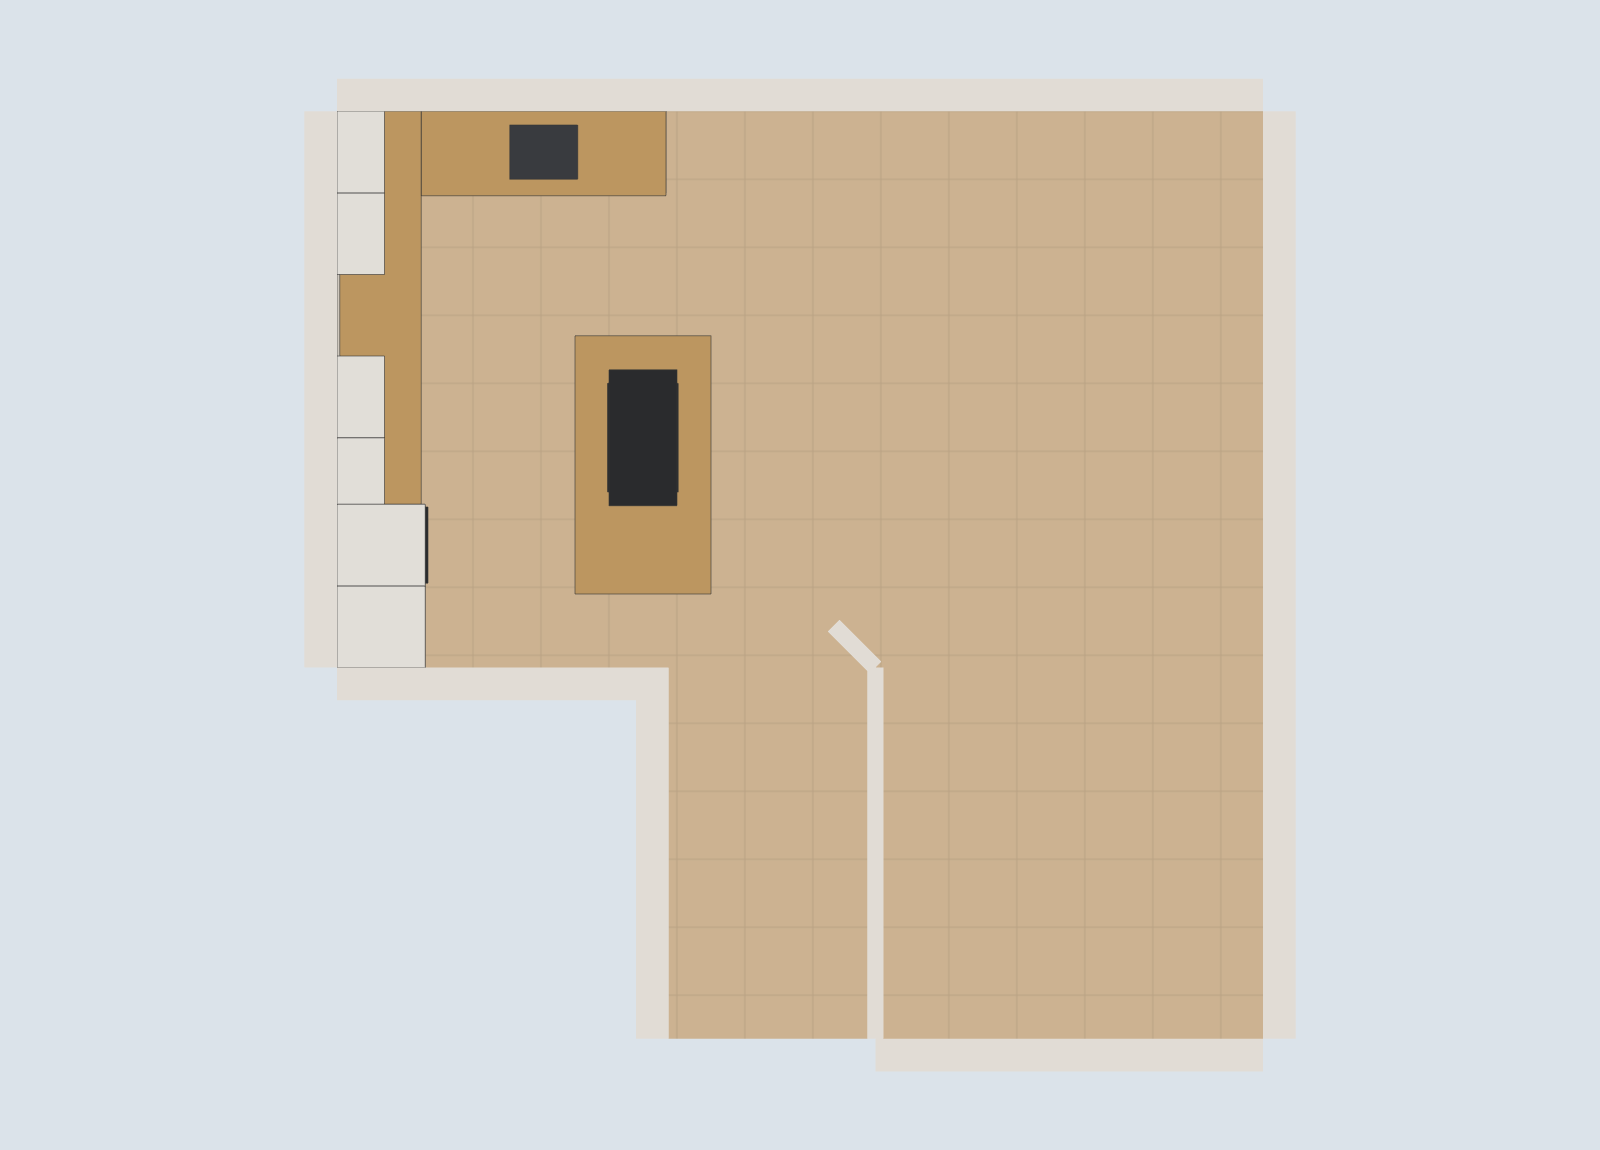
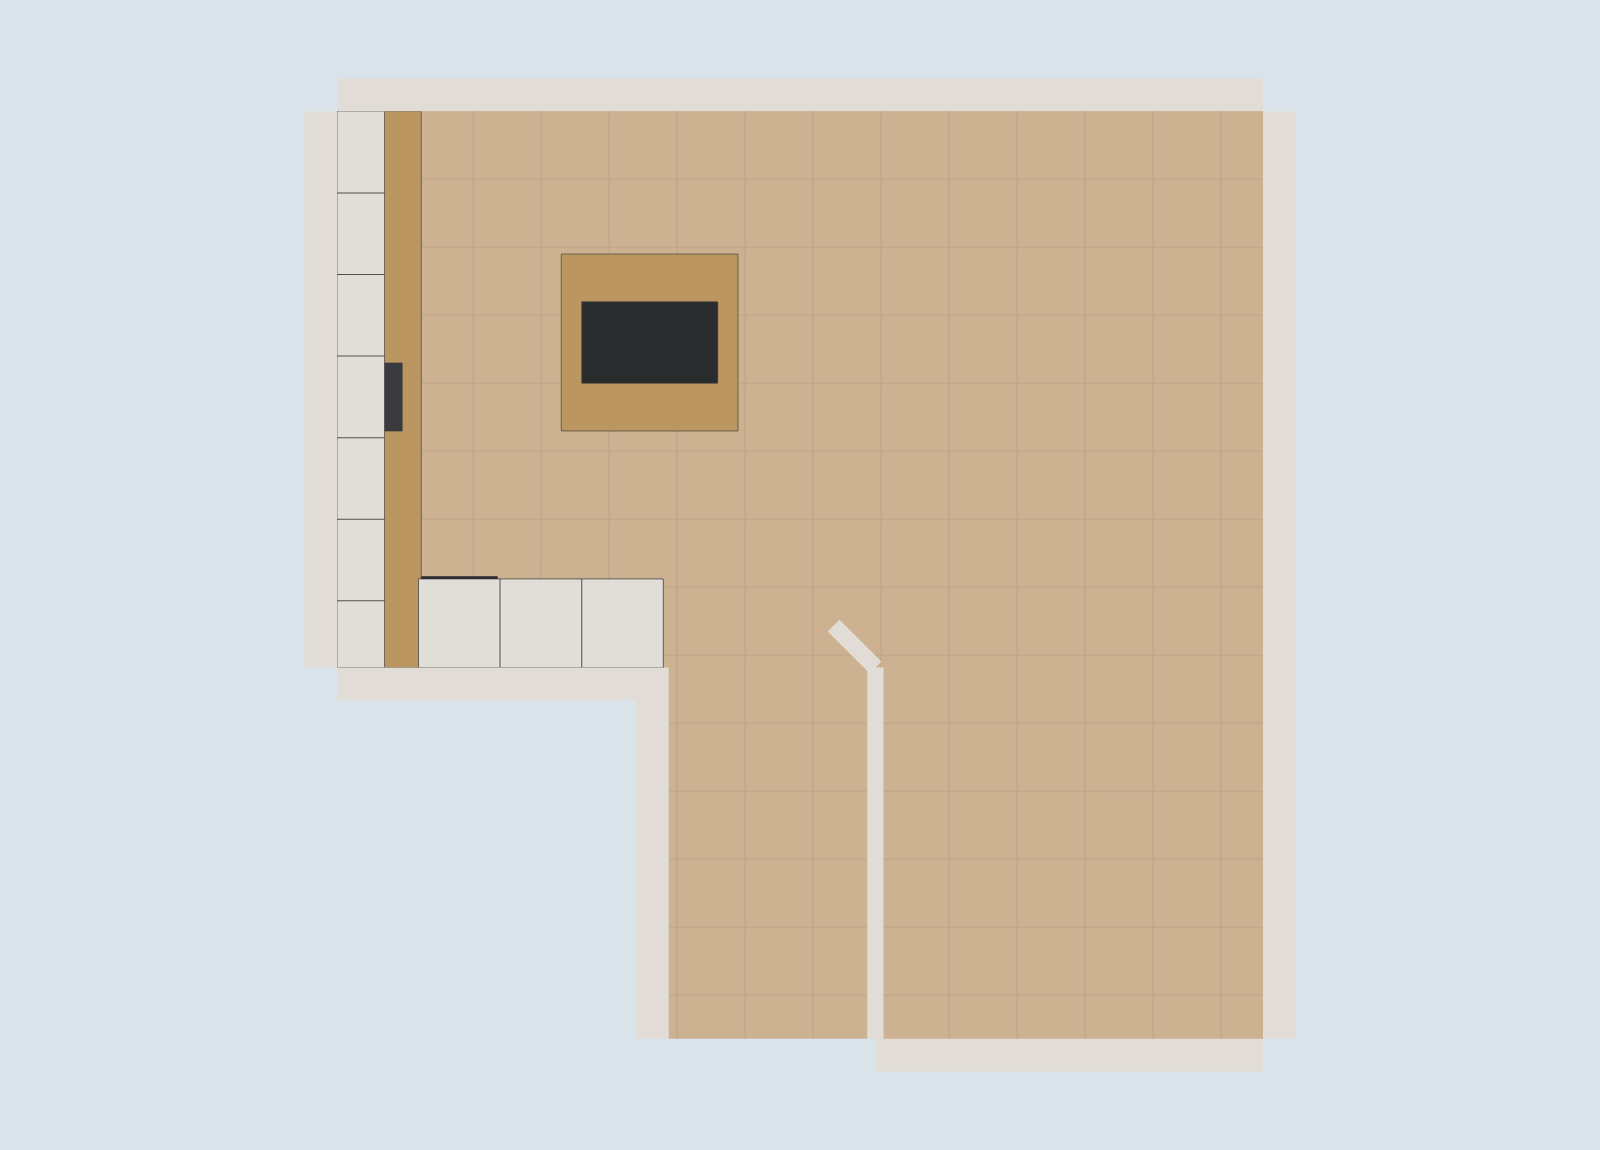
Küche nach dem vorgegebenen Raster neu anordnen
Bisher lag die Zeile geteilt an West- und Nordwand, die Hochschränke standen
in einer Linie mit der Westzeile. Neu nach Plan:

- durchgehende Zeile aus sieben Unterschränken mit Arbeitsplatte und je einem
  Hängeschrank darüber an der Westwand (6 x 60 + 49 Passstück = 409 cm),
  Spüle in der Mitte
- Block aus drei Hochschränken quer dazu an der Südwand zum Flur
- Kochinsel 120 x 120 frei im Raum, rund 105 cm Gang zu beiden Seiten
- Standard-Kamera für den Screenshot auf die neue Anordnung ausgerichtet

Claude-Session: https://claude.ai/code/session_01VGeXj2wiswBkiPxBbkpp6F

Changed region(s): [[0.2188, 0.213, 0.4688, 0.5783], [0.25, 0.0913, 0.4375, 0.1826], [0.1875, 0.213, 0.25, 0.3957]]

diff --git a/src/defaultProject.ts b/src/defaultProject.ts
@@ -113,45 +113,67 @@ interface Item {
 }
 
 /**
- * Küche nach dem Referenzbild: L aus Westzeile und Nordzeile unter dem Fenster,
- * Hochschrankblock an der Flurwand und eine freistehende Kochinsel.
+ * Küche nach dem Plan:
+ *
+ *   X x x x x x x     X/x  Unterschrank + Arbeitsplatte + Hängeschrank darüber
+ *   H 0 0 0 0 0       H/h  Hochschrank
+ *   H 0 0 K K 0       K    Kochinsel
+ *   h 0 0 K K 0       0    frei
+ *   0 0 0 0 0 0
+ *
+ * Die durchgehende Zeile liegt an der **Westwand** – das ist die einzige Wand
+ * der Küche ohne Fenster und damit die einzige, an die Hängeschränke passen.
+ * Der Hochschrankblock steht quer dazu an der **Südwand** (Wand zum Flur); an
+ * der Nordwand wäre er nicht möglich, dort sitzt das 209 cm breite Fenster.
+ * Die Insel steht frei im Raum, mit rund 105 cm Gang zur Zeile und zum Block.
  */
 const KITCHEN: Item[] = [
-  // --- Westzeile: Unterschränke ---
-  ...[30, 90, 150, 210].map((z, i) => ({
-    defId: i === 1 ? 'drawer-60' : 'base-60',
-    name: i === 1 ? 'Schubladenschrank 60' : 'Unterschrank 60',
-    at: [30, 0, z] as [number, number, number],
-    size: [BASE_D, BASE_H, 60] as [number, number, number],
+  // --- Westzeile: sieben Unterschränke (6 × 60 + 49 Passstück = 409) ---
+  ...[
+    { z: 30, w: 60, id: 'base-60', name: 'Unterschrank 60' },
+    { z: 90, w: 60, id: 'drawer-60', name: 'Schubladenschrank 60' },
+    { z: 150, w: 60, id: 'base-60', name: 'Unterschrank 60' },
+    { z: 210, w: 60, id: 'sink-60', name: 'Spülenschrank 60' },
+    { z: 270, w: 60, id: 'drawer-60', name: 'Schubladenschrank 60' },
+    { z: 330, w: 60, id: 'base-60', name: 'Unterschrank 60' },
+    { z: 384.5, w: 49, id: 'base-60', name: 'Unterschrank 49 (Passstück)' },
+  ].map(({ z, w, id, name }) => ({
+    defId: id,
+    name,
+    at: [BASE_D / 2, 0, z] as [number, number, number],
+    size: [BASE_D, BASE_H, w] as [number, number, number],
     color: KITCHEN_COLORS.front,
   })),
   {
-    defId: 'base-60',
-    name: 'Unterschrank 49 (Passstück)',
-    at: [30, 0, 264.5],
-    size: [BASE_D, BASE_H, 49],
-    color: KITCHEN_COLORS.front,
-  },
-  {
     defId: 'worktop',
     name: 'Arbeitsplatte West',
-    at: [WORKTOP_D / 2, BASE_H, 144.5],
-    size: [WORKTOP_D, WORKTOP_T, 289],
+    at: [WORKTOP_D / 2, BASE_H, 204.5],
+    size: [WORKTOP_D, WORKTOP_T, 409],
     color: KITCHEN_COLORS.oak,
   },
   {
     defId: 'splashback',
     name: 'Rückwand West',
-    at: [1, BASE_H + WORKTOP_T, 144.5],
-    size: [2, WALL_UNIT_Y - BASE_H - WORKTOP_T, 289],
+    at: [1, BASE_H + WORKTOP_T, 204.5],
+    size: [2, WALL_UNIT_Y - BASE_H - WORKTOP_T, 409],
     color: KITCHEN_COLORS.splashback,
   },
-  // --- Westzeile: Hängeschränke (über der Spüle bleibt es offen) ---
+  {
+    defId: 'sink-basin',
+    name: 'Spülbecken',
+    at: [28, BASE_H + 0.5, 210],
+    size: [40, WORKTOP_T, 50],
+    color: KITCHEN_COLORS.sink,
+  },
+  // --- Über jedem Unterschrank ein Hängeschrank ---
   ...[
     { z: 30, w: 60 },
     { z: 90, w: 60 },
+    { z: 150, w: 60 },
     { z: 210, w: 60 },
-    { z: 264.5, w: 49 },
+    { z: 270, w: 60 },
+    { z: 330, w: 60 },
+    { z: 384.5, w: 49 },
   ].map(({ z, w }) => ({
     defId: 'wall-60',
     name: `Hängeschrank ${w}`,
@@ -159,84 +181,59 @@ const KITCHEN: Item[] = [
     size: [WALL_UNIT_D, WALL_UNIT_H, w] as [number, number, number],
     color: KITCHEN_COLORS.front,
   })),
-  // --- Hochschrankblock an der Flurwand ---
-  {
-    defId: 'oven-60',
-    name: 'Herdumbauschrank 60',
-    at: [TALL_D / 2, 0, 319],
-    size: [TALL_D, TALL_H, 60],
+  // --- Hochschrankblock quer dazu an der Südwand ---
+  ...[
+    { x: 90, id: 'oven-60', name: 'Herdumbauschrank 60' },
+    { x: 150, id: 'tall-60', name: 'Hochschrank 60' },
+    { x: 210, id: 'fridge-60', name: 'Kühlschrank 60' },
+  ].map(({ x, id, name }) => ({
+    defId: id,
+    name,
+    at: [x, 0, 409 - TALL_D / 2] as [number, number, number],
+    size: [60, TALL_H, TALL_D] as [number, number, number],
     color: KITCHEN_COLORS.front,
-  },
-  {
-    defId: 'fridge-60',
-    name: 'Kühlschrank 60',
-    at: [TALL_D / 2, 0, 379],
-    size: [TALL_D, TALL_H, 60],
-    color: KITCHEN_COLORS.front,
-  },
-  ...[319, 379].map((z) => ({
+  })),
+  ...[90, 150, 210].map((x) => ({
     defId: 'top-60',
     name: 'Aufsatzschrank 60',
-    at: [TALL_D / 2, TALL_H, z] as [number, number, number],
-    size: [TALL_D, TOP_UNIT_H, 60] as [number, number, number],
+    at: [x, TALL_H, 409 - TALL_D / 2] as [number, number, number],
+    size: [60, TOP_UNIT_H, TALL_D] as [number, number, number],
     color: KITCHEN_COLORS.front,
   })),
   {
     defId: 'oven',
     name: 'Backofen',
-    at: [TALL_D, 85, 319],
-    size: [4, 60, 56],
+    at: [90, 85, 409 - TALL_D],
+    size: [56, 60, 4],
     color: KITCHEN_COLORS.black,
   },
-  // --- Nordzeile unter dem Fenster, mit Spüle ---
-  ...[92, 152, 212].map((x, i) => ({
-    defId: i === 1 ? 'sink-60' : 'base-60',
-    name: i === 1 ? 'Spülenschrank 60' : 'Unterschrank 60',
-    at: [x, 0, 30] as [number, number, number],
-    size: [60, BASE_H, BASE_D] as [number, number, number],
-    color: KITCHEN_COLORS.front,
-  })),
-  {
-    defId: 'worktop',
-    name: 'Arbeitsplatte Nord',
-    at: [152, BASE_H, WORKTOP_D / 2],
-    size: [180, WORKTOP_T, WORKTOP_D],
-    color: KITCHEN_COLORS.oak,
-  },
-  {
-    defId: 'sink-basin',
-    name: 'Spülbecken',
-    at: [152, BASE_H + 0.5, 30],
-    size: [50, WORKTOP_T, 40],
-    color: KITCHEN_COLORS.sink,
-  },
-  // --- Kochinsel ---
+  // --- Kochinsel (2 × 2 Rasterfelder) ---
   {
     defId: 'island',
     name: 'Kochinsel',
-    at: [225, 0, 260],
-    size: [90, BASE_H, 180],
+    at: [230, 0, 170],
+    size: [120, BASE_H, 120],
     color: KITCHEN_COLORS.front,
   },
   {
     defId: 'island-top',
     name: 'Inselplatte',
-    at: [225, BASE_H, 260],
-    size: [100, WORKTOP_T, 190],
+    at: [230, BASE_H, 170],
+    size: [130, WORKTOP_T, 130],
     color: KITCHEN_COLORS.oak,
   },
   {
     defId: 'hob',
     name: 'Kochfeld',
-    at: [225, BASE_H + 2, 240],
-    size: [52, WORKTOP_T, 80],
+    at: [230, BASE_H + 2, 170],
+    size: [80, WORKTOP_T, 52],
     color: KITCHEN_COLORS.black,
   },
   {
     defId: 'hood',
     name: 'Dunstabzugshaube',
-    at: [225, 155, 240],
-    size: [50, 35, 100],
+    at: [230, 155, 170],
+    size: [100, 35, 60],
     color: KITCHEN_COLORS.black,
   },
 ]

diff --git a/src/main.ts b/src/main.ts
@@ -120,7 +120,7 @@ if (!showUI) document.body.classList.add('no-ui')
 
 /** Blick in die Küche – derselbe Ausschnitt wie im README-Screenshot. */
 function focusKitchen(): void {
-  views.focus(roomToWorld(5.2, 1.75, 3.15), roomToWorld(1.0, 1.0, 1.35))
+  views.focus(roomToWorld(5.2, 1.75, 0.7), roomToWorld(0.9, 1.0, 2.5))
 }
 
 /** `?cam=px,py,pz,tx,ty,tz` (Grundriss-Meter) – zum Einrichten eigener Ansichten. */

diff --git a/README.md b/README.md
@@ -53,10 +53,28 @@ z nach Süden; alle Maße in cm):
 Bereich hinter dem Flur (Büro) ist in der Skizze abgeschnitten und daher nicht
 modelliert. Alles davon lässt sich in `src/defaultProject.ts` anpassen.
 
-Die **Küche** folgt dem Referenz-Rendering: L-Form aus Westzeile (Unterschränke,
-Hängeschränke, Rückwand) und Nordzeile unter dem Fenster mit Spüle, dazu der
-Hochschrankblock mit Backofen und Kühlschrank an der Flurwand sowie eine
-freistehende Kochinsel mit Kochfeld und Dunstabzugshaube.
+Die **Küche** folgt diesem Raster:
+
+```
+X x x x x x x     X/x  Unterschrank + Arbeitsplatte + Hängeschrank darüber
+H 0 0 0 0 0       H/h  Hochschrank
+H 0 0 K K 0       K    Kochinsel
+h 0 0 K K 0       0    frei
+0 0 0 0 0 0
+```
+
+Die durchgehende Zeile aus sieben Unterschränken (6 × 60 cm + 49 cm Passstück =
+409 cm) mit Arbeitsplatte und Hängeschränken liegt an der **Westwand** – der
+einzigen Wand der Küche ohne Fenster und damit der einzigen, an die
+Hängeschränke passen. Die Spüle sitzt in der Mitte dieser Zeile.
+
+Der Block aus drei Hochschränken (Herdumbau mit Backofen, Hochschrank,
+Kühlschrank) steht quer dazu an der **Südwand** zum Flur. An der Nordwand wäre
+er nicht möglich, dort sitzt das 209 cm breite Fenster – falls der Block dort
+stehen soll, muss das Fenster anders liegen.
+
+Die Kochinsel (120 × 120 cm) mit Kochfeld und Dunstabzugshaube steht frei im
+Raum, mit rund 105 cm Gang zur Zeile und zum Hochschrankblock.
 
 ## Funktionen
 
